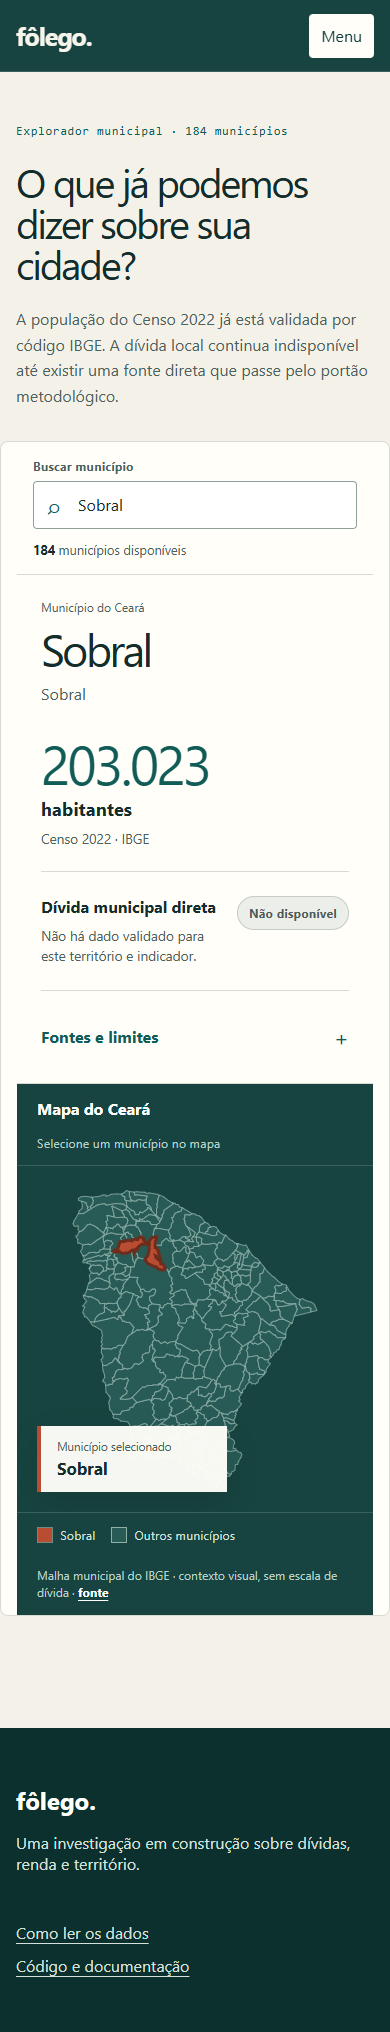
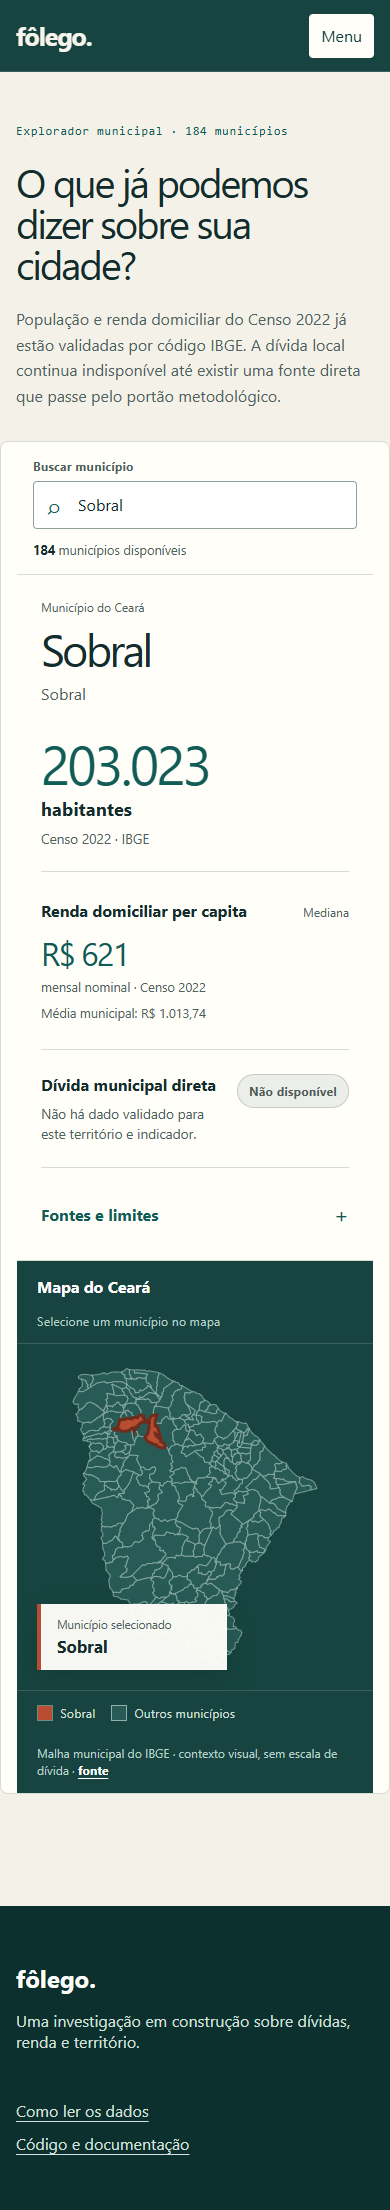
feat: show municipal income context

diff --git a/app/src/components/CoveragePanel.tsx b/app/src/components/CoveragePanel.tsx
@@ -10,6 +10,14 @@ export function CoveragePanel({ municipality }: CoveragePanelProps) {
   const observation = municipalDebtCoverage(municipality.slug);
   const state = describeObservation(observation);
   const population = new Intl.NumberFormat("pt-BR").format(municipality.population_2022);
+  const currency = new Intl.NumberFormat("pt-BR", {
+    style: "currency",
+    currency: "BRL",
+    minimumFractionDigits: 0,
+    maximumFractionDigits: 2,
+  });
+  const medianIncome = currency.format(municipality.income_pc_median_2022);
+  const meanIncome = currency.format(municipality.income_pc_mean_2022);
 
   return (
     <aside className="coverage-panel" aria-live="polite">
@@ -25,6 +33,16 @@ export function CoveragePanel({ municipality }: CoveragePanelProps) {
         <p>Censo 2022 · IBGE</p>
       </section>
 
+      <section className="income-fact" aria-label="Rendimento domiciliar per capita">
+        <div>
+          <h3>Renda domiciliar per capita</h3>
+          <span>Mediana</span>
+        </div>
+        <p className="income-value">{medianIncome}</p>
+        <p>mensal nominal · Censo 2022</p>
+        <small>Média municipal: {meanIncome}</small>
+      </section>
+
       <section className="availability-row">
         <div>
           <h3>Dívida municipal direta</h3>
@@ -37,8 +55,8 @@ export function CoveragePanel({ municipality }: CoveragePanelProps) {
         <summary>Fontes e limites</summary>
         <div>
           <p>
-            A população é observada no município. A dívida não recebe valor estadual, regional
-            ou demonstrativo.
+            População e renda são observadas no município. A dívida não recebe valor estadual,
+            regional ou demonstrativo.
           </p>
           <dl>
             <div><dt>Escala</dt><dd>Município</dd></div>
@@ -50,6 +68,7 @@ export function CoveragePanel({ municipality }: CoveragePanelProps) {
           >
             Fonte da população
           </a>
+          <a href="https://sidra.ibge.gov.br/tabela/10295">Fonte da renda</a>
           <a href={observation.source_url}>Entender a cobertura</a>
         </div>
       </details>

diff --git a/app/src/styles.css b/app/src/styles.css
@@ -1246,6 +1246,48 @@ a {
   font-size: 0.85rem;
 }
 
+.income-fact {
+  padding: 1.75rem 0;
+  border-bottom: 1px solid var(--line);
+}
+
+.income-fact > div {
+  display: flex;
+  justify-content: space-between;
+  align-items: baseline;
+  gap: 1rem;
+}
+
+.income-fact h3,
+.income-fact p {
+  margin: 0;
+}
+
+.income-fact h3 {
+  font-size: 1rem;
+}
+
+.income-fact > div span {
+  color: var(--muted);
+  font-size: 0.75rem;
+}
+
+.income-fact .income-value {
+  margin-top: 1rem;
+  color: var(--brand);
+  font-size: clamp(2rem, 3vw, 3rem);
+  letter-spacing: -0.05em;
+  line-height: 1;
+}
+
+.income-fact > p:not(.income-value),
+.income-fact small {
+  display: block;
+  margin-top: 0.55rem;
+  color: var(--muted);
+  font-size: 0.8rem;
+}
+
 .availability-row {
   display: grid;
   grid-template-columns: 1fr auto;

diff --git a/app/src/pages/CitiesPage.tsx b/app/src/pages/CitiesPage.tsx
@@ -31,8 +31,8 @@ export function CitiesPage() {
         <p className="section-marker">Explorador municipal · 184 municípios</p>
         <h1>O que já podemos dizer sobre sua cidade?</h1>
         <p>
-          A população do Censo 2022 já está validada por código IBGE. A dívida local continua
-          indisponível até existir uma fonte direta que passe pelo portão metodológico.
+          População e renda domiciliar do Censo 2022 já estão validadas por código IBGE. A dívida
+          local continua indisponível até existir uma fonte direta que passe pelo portão metodológico.
         </p>
       </header>
 

diff --git a/app/src/data/municipalities.ts b/app/src/data/municipalities.ts
@@ -4,6 +4,8 @@ export type Municipality = {
   name: string;
   region: string;
   population_2022: number;
+  income_pc_mean_2022: number;
+  income_pc_median_2022: number;
   pilot: boolean;
 };
 

diff --git a/evidencias/QA_FRONTEND.md b/evidencias/QA_FRONTEND.md
@@ -1,6 +1,6 @@
 # QA da base do frontend
 
-Data: 06/11/2026. Escopo: base navegável, população oficial e explorador cartográfico municipal.
+Data: 09/11/2026. Escopo: base navegável, população e renda oficiais e explorador cartográfico municipal.
 
 ## Resultado
 
@@ -11,6 +11,8 @@ Data: 06/11/2026. Escopo: base navegável, população oficial e explorador cart
 - Busca por “Crato” via teclado atualiza a ficha e a URL para `?cidade=crato`.
 - As 184 geometrias são renderizadas; clicar em Fortaleza no mapa sincroniza mapa, ficha e URL.
 - A seleção atualiza a etiqueta com o nome dentro do mapa e preserva a posição vertical da página.
+- População, renda domiciliar per capita média e renda mediana cobrem exatamente os 184 códigos municipais, sem valores ausentes.
+- Os arquivos brutos da renda conferem com os hashes SHA-256 registrados no manifesto de coleta.
 - A nova composição usa busca compacta, mapa dominante e uma única ficha lateral; no celular a ficha antecede o mapa.
 - Mudança de rota reinicia a rolagem no topo. Links internos continuam levando às seções da página inicial.
 - Nenhum erro ou aviso foi registrado no console durante a rodada no navegador.
@@ -46,7 +48,7 @@ Os pares verificados atendem 4,5:1 para texto normal. A checagem não substitui 
 ## Limites desta rodada
 
 - Não houve teste com participantes; a tarefa 01-05 permanece aberta.
-- Comparação entre cidades, renda, emprego formal e séries de crédito ainda não foram implementados.
+- Comparação entre cidades, emprego formal e séries de crédito ainda não foram implementados. A renda disponível é um retrato nominal do Censo 2022, não uma série mensal corrente.
 - Os estados de carregamento e erro existem, mas a simulação de falha de rede permanece para a fase de validação.
 - A inspeção de acessibilidade cobriu semântica, nomes acessíveis, foco visível, alvos principais e movimento reduzido; leitor de tela e ordem completa de tabulação permanecem para a fase de validação.
 
